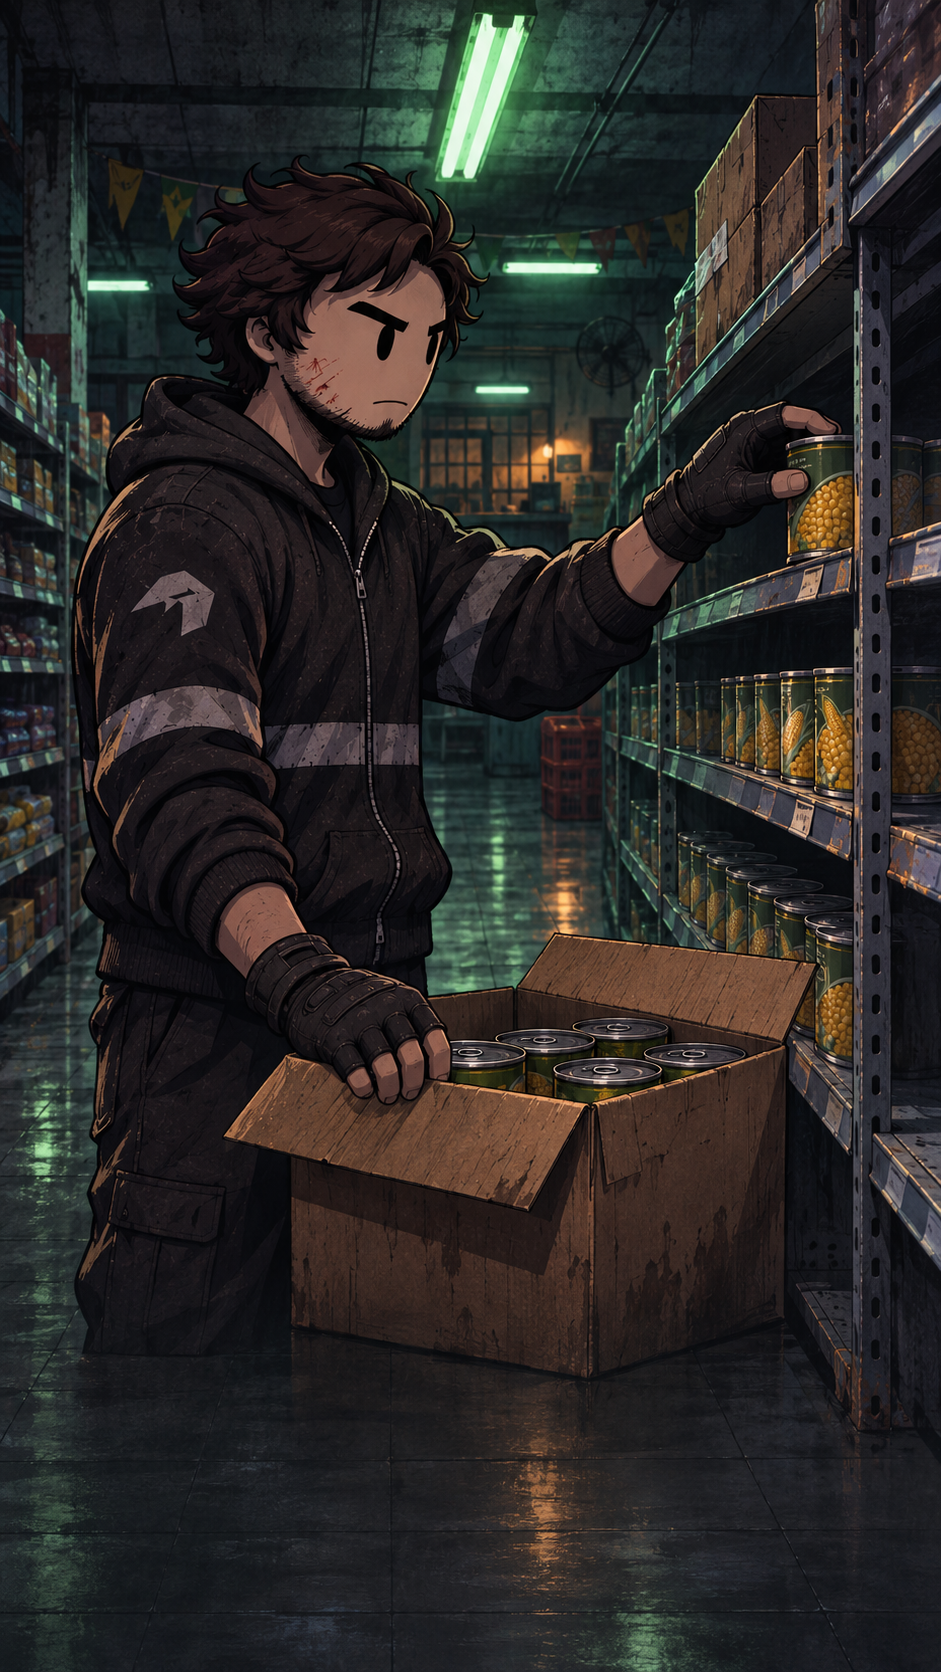
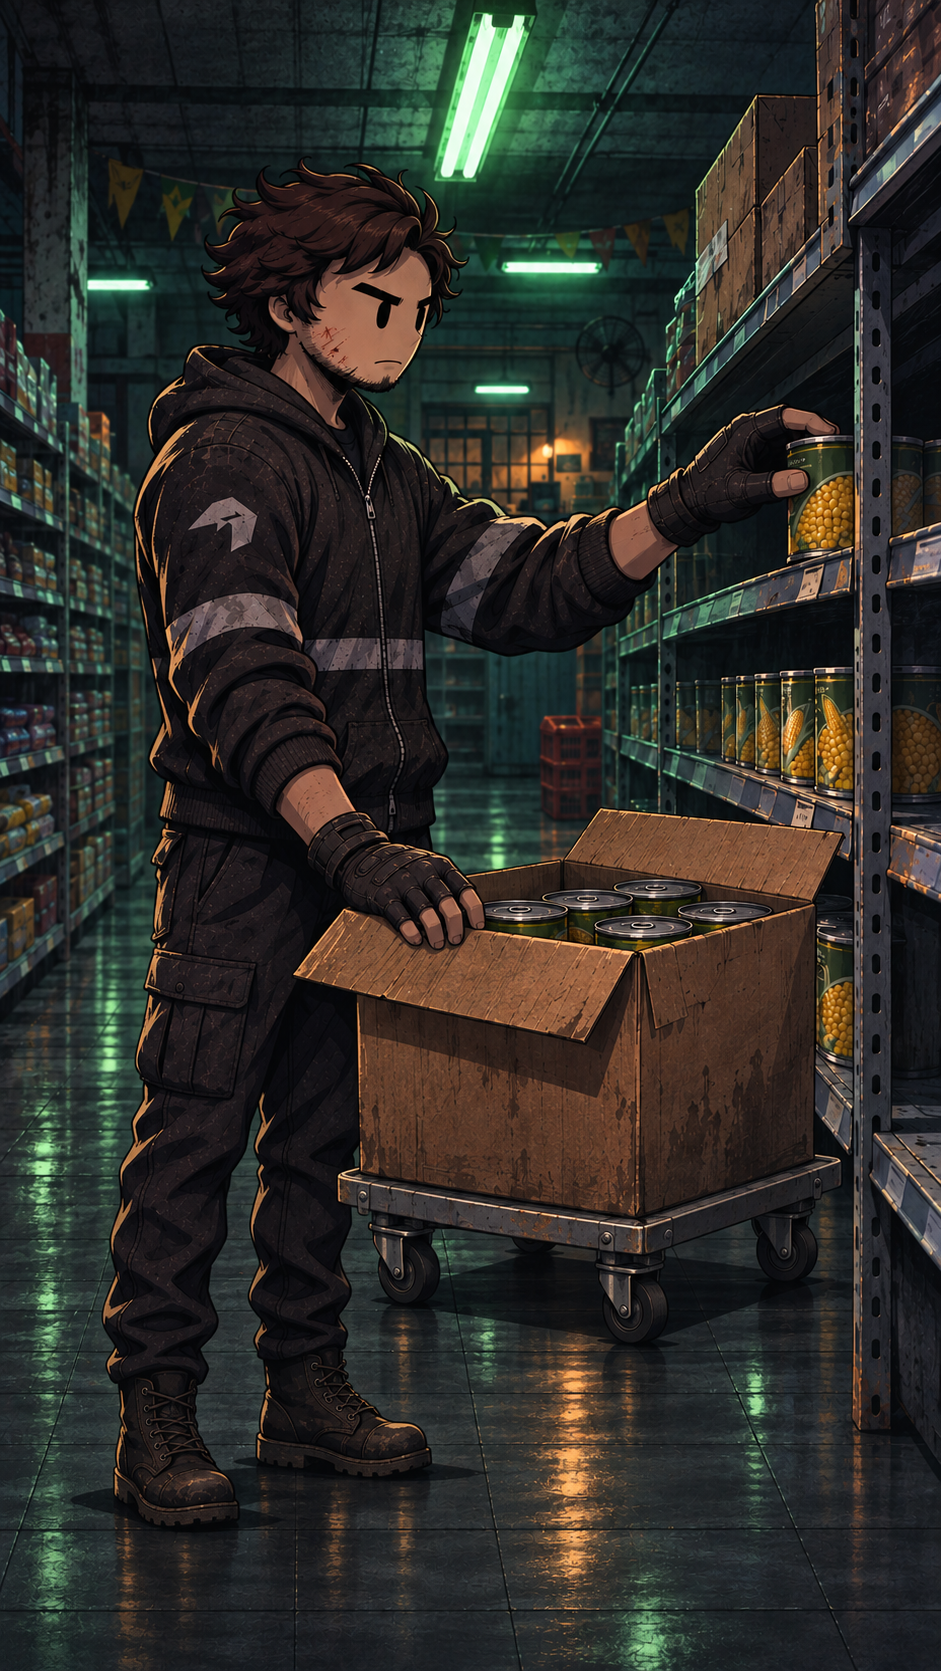
Corrige anatomia e geometria dos quadros de João

diff --git a/series/o-ultimo-estoque/storyboard/imagens/README.md b/series/o-ultimo-estoque/storyboard/imagens/README.md
@@ -1,5 +1,11 @@
-# Imagens reais do episódio 1
+# Imagens do episódio 1 — revisão de detalhes
 
-Quatro quadros iniciais foram gerados pela ferramenta nativa do ChatGPT/Codex e salvos aqui: p002, p009, p021 e p025. João aparece sem mochila e sem alças. O manifesto registra nomes, dimensões e hashes.
+Quatro quadros iniciais gerados no ChatGPT nativo. João permanece sem mochila e sem alças.
 
-O episódio completo precisa de 24 mídias; estas quatro não representam cobertura completa. Imagens recebem câmera leve na montagem. Para usar um vídeo em qualquer plano, importe o clipe com o mesmo ID; ele fica em `../clips/` e mantém somente seu movimento original.
+- p002, revisão 2: pernas/botas contínuas, contato com o piso e caixa apoiada em carrinho.
+- p009, revisão 2: porta contida entre trilhos e batentes, sem extensão na parede.
+- p021 e p025: revisão visual registrada sem nova geração.
+
+`manifesto.json` guarda hashes, dimensões e revisão. `revisao-visual.json` registra a inspeção manual por arquivo; ela não representa detecção automática ou garantia absoluta de perfeição. Versões anteriores permanecem no histórico do Git.
+
+O episódio completo ainda precisa de outras 20 mídias. Imagens recebem movimento leve; clipes preservam seu movimento original.
